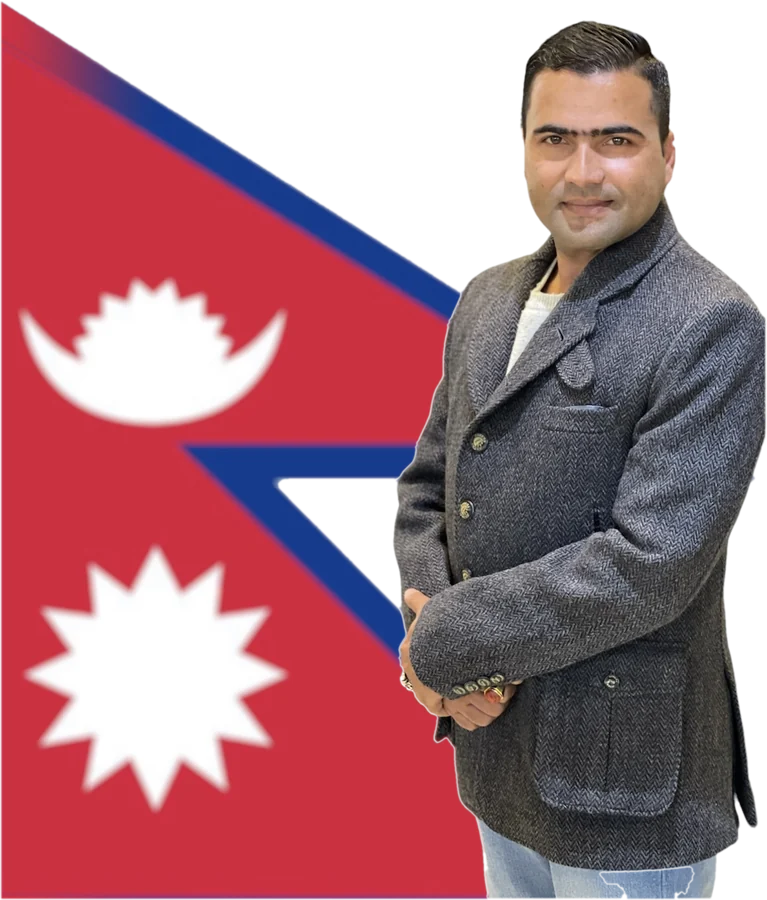
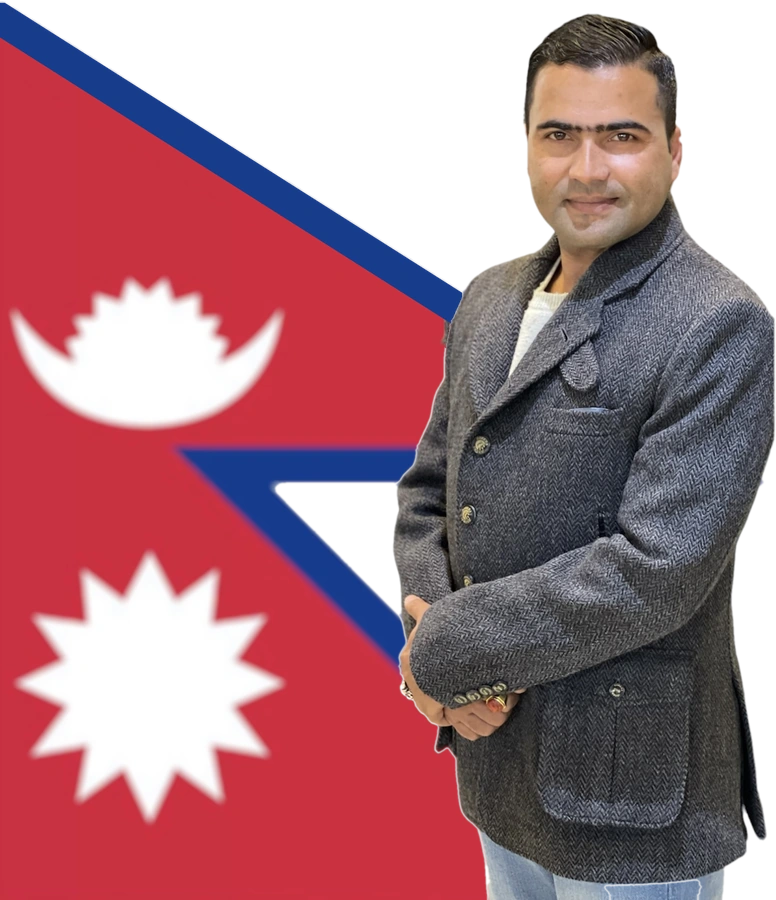
Nation band: flag cut-out blended into maroon, all-maroon on phones, shorter band; fix orphan grid cells

diff --git a/app/globals.css b/app/globals.css
@@ -235,9 +235,15 @@ textarea.input { min-height: 160px; resize: vertical; }
 .cols-260 { grid-template-columns: repeat(auto-fit, minmax(min(100%, 260px), 1fr)); }
 .cols-280 { grid-template-columns: repeat(auto-fit, minmax(min(100%, 280px), 1fr)); }
 .cols-300 { grid-template-columns: repeat(auto-fit, minmax(min(100%, 300px), 1fr)); }
+/* Four items: 4 across or 2×2, never 3+1 (which leaves an empty divider-coloured cell). */
+.cols-4 { grid-template-columns: repeat(4, minmax(0, 1fr)); }
+@media (max-width: 1023px) { .cols-4 { grid-template-columns: repeat(2, minmax(0, 1fr)); } }
 .cols-3 { grid-template-columns: 1fr; }
 @media (min-width: 560px) { .cols-3 { grid-template-columns: repeat(2, minmax(0, 1fr)); } }
 @media (min-width: 900px) { .cols-3 { grid-template-columns: repeat(3, minmax(0, 1fr)); } }
+/* Three items: stacked or 3 across, never 2+1. */
+.cols-3x { grid-template-columns: 1fr; }
+@media (min-width: 900px) { .cols-3x { grid-template-columns: repeat(3, minmax(0, 1fr)); } }
 
 /* numbered rows with a top rule */
 .row-item { display: flex; gap: 20px; align-items: baseline; padding: 22px 0; border-top: 2px solid var(--color-divider); }
@@ -487,60 +493,83 @@ textarea.input { min-height: 160px; resize: vertical; }
 
 .nation {
   position: relative; isolation: isolate; color: #fff; background: var(--color-bg);
-  /* fixed height so the band's colour stops can line up with the photo (see --flag-x) */
-  --nh: clamp(640px, 96vh, 1040px);
+  /* fixed height so the red's clip-path can be computed from it */
+  --nh: min(clamp(520px, 78vh, 860px), 67vw); /* 67vw keeps the flag to half the width on tall tablets */
   height: var(--nh); display: flex; align-items: center; overflow: hidden;
-  /* where the photo's left edge (the flag's trimmed edge) lands: the photo is right-aligned, 86% of the
-     band's height tall, and 1364 x 1600 */
-  --flag-x: calc(100% - var(--nh) * 0.86 * 1364 / 1600);
+  /* the flag's own colours, as the cut-out decodes them (written by scripts/sync_flag_css.py) */
+  --flag-red: rgb(199 49 65);
+  --flag-blue: rgb(23 60 139);
 }
-/* The band: deep maroon behind the headline into the flag's red, eased into the paper at top and bottom
-   (Andreas Larsen's "easing gradients" stops, applied as a mask). */
+.nation__art { position: absolute; inset: 0; z-index: 0; pointer-events: none; }
+/* Gray side only: a warm gray that fades softly into the page above and below (the one gradient here). */
 .nation__field {
-  position: absolute; inset: 0; z-index: 0; pointer-events: none;
-  /* Left: one plain colour, the flag's own red, up to the flag's edge. Right: warm gray behind him. */
-  background: linear-gradient(in oklch 90deg, #c93343 0%, #c93343 calc(var(--flag-x) + 1.5%), #b9ada9 calc(var(--flag-x) + 12%), #cfc7c2 100%);
-}
-.nation__art {
-  position: absolute; inset: 0; z-index: 0; pointer-events: none;
-  -webkit-mask-image: linear-gradient(to bottom, rgba(0,0,0,0) 0.00%, rgba(0,0,0,0.002) 0.25%, rgba(0,0,0,0.008) 0.67%, rgba(0,0,0,0.021) 1.26%, rgba(0,0,0,0.042) 1.95%, rgba(0,0,0,0.075) 2.77%, rgba(0,0,0,0.126) 3.78%, rgba(0,0,0,0.194) 4.90%, rgba(0,0,0,0.278) 6.09%, rgba(0,0,0,0.382) 7.42%, rgba(0,0,0,0.541) 9.24%, rgba(0,0,0,0.738) 11.34%, rgba(0,0,0,1) 14.00%, rgba(0,0,0,1) 86.00%, rgba(0,0,0,0.738) 88.66%, rgba(0,0,0,0.541) 90.76%, rgba(0,0,0,0.382) 92.58%, rgba(0,0,0,0.278) 93.91%, rgba(0,0,0,0.194) 95.10%, rgba(0,0,0,0.126) 96.22%, rgba(0,0,0,0.075) 97.23%, rgba(0,0,0,0.042) 98.05%, rgba(0,0,0,0.021) 98.74%, rgba(0,0,0,0.008) 99.33%, rgba(0,0,0,0.002) 99.75%, rgba(0,0,0,0) 100.00%);
-  mask-image: linear-gradient(to bottom, rgba(0,0,0,0) 0.00%, rgba(0,0,0,0.002) 0.25%, rgba(0,0,0,0.008) 0.67%, rgba(0,0,0,0.021) 1.26%, rgba(0,0,0,0.042) 1.95%, rgba(0,0,0,0.075) 2.77%, rgba(0,0,0,0.126) 3.78%, rgba(0,0,0,0.194) 4.90%, rgba(0,0,0,0.278) 6.09%, rgba(0,0,0,0.382) 7.42%, rgba(0,0,0,0.541) 9.24%, rgba(0,0,0,0.738) 11.34%, rgba(0,0,0,1) 14.00%, rgba(0,0,0,1) 86.00%, rgba(0,0,0,0.738) 88.66%, rgba(0,0,0,0.541) 90.76%, rgba(0,0,0,0.382) 92.58%, rgba(0,0,0,0.278) 93.91%, rgba(0,0,0,0.194) 95.10%, rgba(0,0,0,0.126) 96.22%, rgba(0,0,0,0.075) 97.23%, rgba(0,0,0,0.042) 98.05%, rgba(0,0,0,0.021) 98.74%, rgba(0,0,0,0.008) 99.33%, rgba(0,0,0,0.002) 99.75%, rgba(0,0,0,0) 100.00%);
+  position: absolute; inset: 0; z-index: 0; background: #cfc7c2;
+  -webkit-mask-image: linear-gradient(to bottom, rgba(0,0,0,0) 0.00%, rgba(0,0,0,0.002) 0.40%, rgba(0,0,0,0.008) 1.06%, rgba(0,0,0,0.021) 1.98%, rgba(0,0,0,0.042) 3.06%, rgba(0,0,0,0.075) 4.36%, rgba(0,0,0,0.126) 5.94%, rgba(0,0,0,0.194) 7.70%, rgba(0,0,0,0.278) 9.57%, rgba(0,0,0,0.382) 11.66%, rgba(0,0,0,0.541) 14.52%, rgba(0,0,0,0.738) 17.82%, rgba(0,0,0,1) 22.00%, rgba(0,0,0,1) 78.00%, rgba(0,0,0,0.738) 82.18%, rgba(0,0,0,0.541) 85.48%, rgba(0,0,0,0.382) 88.34%, rgba(0,0,0,0.278) 90.43%, rgba(0,0,0,0.194) 92.30%, rgba(0,0,0,0.126) 94.06%, rgba(0,0,0,0.075) 95.64%, rgba(0,0,0,0.042) 96.94%, rgba(0,0,0,0.021) 98.02%, rgba(0,0,0,0.008) 98.94%, rgba(0,0,0,0.002) 99.60%, rgba(0,0,0,0) 100.00%);
+  mask-image: linear-gradient(to bottom, rgba(0,0,0,0) 0.00%, rgba(0,0,0,0.002) 0.40%, rgba(0,0,0,0.008) 1.06%, rgba(0,0,0,0.021) 1.98%, rgba(0,0,0,0.042) 3.06%, rgba(0,0,0,0.075) 4.36%, rgba(0,0,0,0.126) 5.94%, rgba(0,0,0,0.194) 7.70%, rgba(0,0,0,0.278) 9.57%, rgba(0,0,0,0.382) 11.66%, rgba(0,0,0,0.541) 14.52%, rgba(0,0,0,0.738) 17.82%, rgba(0,0,0,1) 22.00%, rgba(0,0,0,1) 78.00%, rgba(0,0,0,0.738) 82.18%, rgba(0,0,0,0.541) 85.48%, rgba(0,0,0,0.382) 88.34%, rgba(0,0,0,0.278) 90.43%, rgba(0,0,0,0.194) 92.30%, rgba(0,0,0,0.126) 94.06%, rgba(0,0,0,0.075) 95.64%, rgba(0,0,0,0.042) 96.94%, rgba(0,0,0,0.021) 98.02%, rgba(0,0,0,0.008) 98.94%, rgba(0,0,0,0.002) 99.60%, rgba(0,0,0,0) 100.00%);
 }
 .nation__inner { width: 100%; position: relative; z-index: 2; padding-top: clamp(72px, 12vh, 140px); padding-bottom: clamp(72px, 12vh, 140px); }
 .nation__text { gap: 28px; max-width: 46%; }
 .nation .kicker { color: var(--color-accent-200); }
 .nation .kicker::before { background: #fff; }
-.nation h2 { color: #fff; text-wrap: balance; text-shadow: 0 2px 24px rgba(40, 8, 14, .25); }
+.nation h2 { color: #fff; text-wrap: balance; }
 .nation__photo {
-  /* full width (the photo stays right-aligned) so the fade below never clips the red field's left side */
-  position: absolute; z-index: 1; left: 0; right: 0; top: 0; bottom: 0;
-  display: flex; align-items: flex-end; justify-content: flex-end; pointer-events: none;
+  position: absolute; z-index: 1; inset: 0;
+  display: flex; align-items: flex-end; justify-content: flex-end;
 }
-/* starts below the band's top fade so his head is never faded */
+/* The cut-out (him + the flag), right-aligned, 86% of the band's height. */
 .nation__fig { position: relative; height: 86%; }
-.nation__fig > img {
-  position: relative; z-index: 2; height: 100%; width: auto; max-width: none; display: block;
+.nation__fig > img { position: relative; z-index: 2; height: 100%; width: auto; max-width: none; display: block; }
+/* The flag, continued to the left edge of the screen, drawn with clip-path only (hard edges, no gradients):
+   ::before is the red; ::after is the flag's blue top border, carried up its diagonal and then along the
+   top of the band to the left edge of the screen.
+   Numbers measured from the cut-out (1379 x 1600): the top edge has slope 0.6343 and meets the photo's left
+   side 0px below its top corner; the blue border is 4.06% of the photo's height thick (measured
+   vertically; x 0.844 for its true thickness, used for the horizontal run). */
+.nation__fig::before, .nation__fig::after {
+  content: ''; position: absolute; bottom: 0; width: 300vw; top: calc(var(--nh) * -0.4);
+  --k: 0.6344;
+  --ys: calc(var(--nh) * 0.26);                                   /* the band's top edge inside this box (0.40 - 0.14) */
+  --y0: calc(var(--nh) * 0.4 + var(--nh) * 0.86 * -0.3 / 1600);      /* the flag's top edge where it meets the photo */
+  --bt: calc(var(--nh) * 0.86 * 0.0413);                          /* border thickness, vertical */
+  --bp: calc(var(--bt) * 0.844);                                  /* border thickness, true */
 }
-/* Soft warm gray glow behind him. */
+.nation__fig::before {
+  /* its diagonal sits 4px inside the blue border's outer edge, so no red hairline shows above the blue */
+  --yr: calc(var(--y0) + 4px);
+  z-index: 1; right: calc(100% - 2px); background: var(--flag-red);
+  clip-path: polygon(0 var(--ys), calc(100% - (var(--yr) - var(--ys)) / var(--k)) var(--ys), 100% var(--yr), 100% 100%, 0 100%);
+}
+.nation__fig::after {
+  /* overlaps the photo by a few px; the photo's own border is redrawn crisp to match (cut-out script) */
+  --o: 3px;
+  z-index: 3; right: calc(100% - var(--o)); background: var(--flag-blue);
+  clip-path: polygon(
+    0 var(--ys),
+    calc(100% - var(--o) - (var(--y0) - var(--ys)) / var(--k)) var(--ys),
+    100% calc(var(--y0) + var(--o) * var(--k)),
+    100% calc(var(--y0) + var(--o) * var(--k) + var(--bt)),
+    calc(100% - var(--o) - (var(--y0) + var(--bt) - var(--ys) - var(--bp)) / var(--k)) calc(var(--ys) + var(--bp)),
+    0 calc(var(--ys) + var(--bp)));
+}
+/* Soft warm gray glow behind him (gray side). */
 .nation__halo {
-  position: absolute; z-index: 1; left: 45%; right: -20%; top: -6%; bottom: 10%;
-  background: radial-gradient(closest-side, #b8aca7 0%, color-mix(in srgb, #c0b5b0 80%, transparent) 45%, color-mix(in srgb, #c0b5b0 0%, transparent) 100%); filter: blur(18px); opacity: .95;
+  position: absolute; z-index: 0; left: 45%; right: -20%; top: -6%; bottom: 10%;
+  background: radial-gradient(closest-side, #b8aca7 0%, color-mix(in srgb, #c0b5b0 80%, transparent) 45%, color-mix(in srgb, #c0b5b0 0%, transparent) 100%);
+  filter: blur(18px); opacity: .95;
 }
 @media (max-width: 759px) {
-  /* Phones: the whole section is the plain flag red (headline included), eased into the paper at its
-     top and bottom edges. */
-  .nation { flex-direction: column; align-items: stretch; height: auto; background: #c93343;
-    -webkit-mask-image: linear-gradient(to bottom, rgba(0,0,0,0) 0.00%, rgba(0,0,0,0.002) 0.13%, rgba(0,0,0,0.008) 0.34%, rgba(0,0,0,0.021) 0.63%, rgba(0,0,0,0.042) 0.97%, rgba(0,0,0,0.075) 1.39%, rgba(0,0,0,0.126) 1.89%, rgba(0,0,0,0.194) 2.45%, rgba(0,0,0,0.278) 3.05%, rgba(0,0,0,0.382) 3.71%, rgba(0,0,0,0.541) 4.62%, rgba(0,0,0,0.738) 5.67%, rgba(0,0,0,1) 7.00%, rgba(0,0,0,1) 93.00%, rgba(0,0,0,0.738) 94.33%, rgba(0,0,0,0.541) 95.38%, rgba(0,0,0,0.382) 96.29%, rgba(0,0,0,0.278) 96.95%, rgba(0,0,0,0.194) 97.55%, rgba(0,0,0,0.126) 98.11%, rgba(0,0,0,0.075) 98.61%, rgba(0,0,0,0.042) 99.03%, rgba(0,0,0,0.021) 99.37%, rgba(0,0,0,0.008) 99.66%, rgba(0,0,0,0.002) 99.87%, rgba(0,0,0,0) 100.00%); mask-image: linear-gradient(to bottom, rgba(0,0,0,0) 0.00%, rgba(0,0,0,0.002) 0.13%, rgba(0,0,0,0.008) 0.34%, rgba(0,0,0,0.021) 0.63%, rgba(0,0,0,0.042) 0.97%, rgba(0,0,0,0.075) 1.39%, rgba(0,0,0,0.126) 1.89%, rgba(0,0,0,0.194) 2.45%, rgba(0,0,0,0.278) 3.05%, rgba(0,0,0,0.382) 3.71%, rgba(0,0,0,0.541) 4.62%, rgba(0,0,0,0.738) 5.67%, rgba(0,0,0,1) 7.00%, rgba(0,0,0,1) 93.00%, rgba(0,0,0,0.738) 94.33%, rgba(0,0,0,0.541) 95.38%, rgba(0,0,0,0.382) 96.29%, rgba(0,0,0,0.278) 96.95%, rgba(0,0,0,0.194) 97.55%, rgba(0,0,0,0.126) 98.11%, rgba(0,0,0,0.075) 98.61%, rgba(0,0,0,0.042) 99.03%, rgba(0,0,0,0.021) 99.37%, rgba(0,0,0,0.008) 99.66%, rgba(0,0,0,0.002) 99.87%, rgba(0,0,0,0) 100.00%); }
-  .nation__field { background: #c93343; }
-  .nation__inner { padding-top: clamp(80px, 14vh, 120px); padding-bottom: 8px; }
+  /* Phones: the whole section is the flag's red; white headline, then the flag photo directly on it. */
+  .nation { flex-direction: column; align-items: stretch; height: auto; background: var(--flag-red); }
+  .nation__inner { padding-top: clamp(48px, 8vh, 72px); padding-bottom: 20px; }
   .nation__text { max-width: none; }
-  .nation__art { position: relative; inset: auto; order: 2; -webkit-mask-image: none; mask-image: none; }
-  .nation__art .nation__field { z-index: -1; }
-  .nation__photo { position: relative; width: 100%; height: auto; justify-content: flex-start; }
+  .nation__art { position: static; }
+  .nation__field { display: none; }
+  .nation__photo { position: relative; inset: auto; width: 100%; justify-content: flex-start; }
   .nation__fig { height: auto; width: 100%; }
   .nation__fig > img { height: auto; width: 100%; }
+  .nation__fig::before, .nation__fig::after { display: none; }
+  .nation__halo { display: none; }
 }
-
 .manifesto span { color: var(--color-neutral-300); transition: color .25s ease; }
 
 .story-frame { position: relative; width: 100%; height: min(calc(100vh - var(--hh, 66px) - 120px), 760px); min-height: 360px; overflow: hidden; background: var(--color-surface); }

diff --git a/components/pages/HomePage.tsx b/components/pages/HomePage.tsx
@@ -297,7 +297,7 @@ export default function HomePage() {
       <section className="wrap" style={{ paddingTop: 'clamp(96px,16vh,200px)', paddingBottom: 'clamp(72px,12vh,140px)' }}>
         <div className="kicker">{t.k.conviction}</div>
         <Manifesto text={t.manifesto} style={{ margin: '32px 0 0 -.058em', fontFamily: 'var(--font-heading)', fontWeight: 800, fontSize: 'calc(clamp(32px,5.6vw,96px) * var(--h-b))', lineHeight: 'var(--hl)', letterSpacing: '-.035em', maxWidth: '16em', textWrap: 'pretty' }} />
-        <div className="cells cols-220" style={{ marginTop: 'clamp(64px,10vh,128px)' }}>
+        <div className="cells cols-4" style={{ marginTop: 'clamp(64px,10vh,128px)' }}>
           {t.stats.map((s, i) => (
             <div key={i} style={{ padding: '28px 24px 32px' }}>
               <div data-reveal={i} className="stack" style={{ justifyContent: 'space-between', gap: 20, minHeight: 180 }}>
@@ -312,17 +312,15 @@ export default function HomePage() {
       {/* Statement band: maroon into the flag's red, the flag portrait continuing out of it, warm gray
           behind him. */}
       <section className="nation" aria-labelledby="nation-title">
-        {/* Band + photo share one container that fades into the paper at top and bottom (one eased mask
-            for both, so the fade is identical across the photo's edge). */}
+        {/* Artwork layer: the gray side, the photo, and the flag continued to the left (CSS clip-paths). */}
         <div className="nation__art">
           <div className="nation__field" aria-hidden="true" />
           <div className="nation__photo">
             {/* Cut-out of him and the whole flag (scripts/cutout_flag_portrait.py). The flag's left edge is
-                trimmed, and the band reaches the flag's red exactly at that edge, so the flag continues out
-                of the background; to its right the band is warm gray. */}
+                trimmed; the flag's red and blue border are continued from that edge in CSS. */}
             <div className="nation__fig">
               <span className="nation__halo" aria-hidden="true" />
-              <img src="/images/badri/nepal-flag-cutout.webp" alt={t.nation.alt} loading="lazy" width={1364} height={1600} />
+              <img src="/images/badri/nepal-flag-cutout.webp" alt={t.nation.alt} loading="lazy" width={1379} height={1600} />
             </div>
           </div>
         </div>
@@ -484,7 +482,7 @@ export default function HomePage() {
           <figcaption className="caption caption-row"><span>{t.impact.cap}</span><span>{t.impact.credit}</span></figcaption>
         </figure>
         <div className="wrap sec-bot" style={{ marginTop: 'clamp(56px,9vh,112px)' }}>
-          <div className="cells cols-260">
+          <div className="cells cols-3x">
             {t.impact.facts.map((f, i) => (
               <div key={i} style={{ padding: '28px 24px 36px' }}>
                 <div data-reveal={i} className="stack" style={{ gap: 12, minHeight: 200 }}>

diff --git a/components/pages/VenturesPage.tsx b/components/pages/VenturesPage.tsx
@@ -54,7 +54,7 @@ export default function VenturesPage() {
       <section id="top" className="wrap page-hero" style={{ paddingBottom: 'clamp(64px,10vh,120px)' }}>
         <Kicker>{t.hero.k}</Kicker>
         <HeroLines lines={t.hero.lines} style={{ marginTop: 24, fontSize: 'calc(clamp(52px,9vw,168px) * var(--h-a))' }} />
-        <div data-hero-fade="1" className="cells cols-260" style={{ marginTop: 'clamp(40px,7vh,80px)', borderTopColor: 'var(--color-text)' }}>
+        <div data-hero-fade="1" className="cells cols-3x" style={{ marginTop: 'clamp(40px,7vh,80px)', borderTopColor: 'var(--color-text)' }}>
           <div className="stack" style={{ padding: '24px 24px 28px 0', gap: 10 }}>
             <span data-count="100" data-suf="+" className="stat">{num(100, lang)}+</span>
             <span className="label">{t.hero.s1}</span>

diff --git a/components/pages/AboutPage.tsx b/components/pages/AboutPage.tsx
@@ -147,7 +147,7 @@ export default function AboutPage() {
         <div className="wrap" style={{ paddingTop: 'clamp(96px,14vh,180px)', paddingBottom: 'clamp(96px,14vh,180px)' }}>
           <Kicker>{t.vision.k}</Kicker>
           <h2 className="display" style={{ marginTop: 28, fontSize: 'calc(clamp(48px,8.4vw,156px) * var(--h-b))', maxWidth: '11em' }}>{t.vision.title}</h2>
-          <div className="cells cols-300" style={{ marginTop: 'clamp(56px,9vh,112px)' }}>
+          <div className="cells cols-3x" style={{ marginTop: 'clamp(56px,9vh,112px)' }}>
             {t.vision.items.map((v, i) => (
               <div key={i} style={{ padding: '28px 24px 40px 4px' }}>
                 <div data-reveal={i} className="stack" style={{ gap: 18 }}>

diff --git a/components/pages/PressPage.tsx b/components/pages/PressPage.tsx
@@ -100,7 +100,7 @@ export default function PressPage() {
       <section className="wrap sec">
         <Kicker>{t.lead.k}</Kicker>
         <h2 className="headline" style={{ marginTop: 24, marginLeft: '-.04em', fontSize: 'calc(clamp(34px,4.2vw,72px) * var(--h-b))', letterSpacing: '-.035em', maxWidth: '16em' }}>{t.lead.title}</h2>
-        <div className="cells cols-300" style={{ marginTop: 'clamp(40px,7vh,80px)' }}>
+        <div className="cells cols-3x" style={{ marginTop: 'clamp(40px,7vh,80px)' }}>
           {t.lead.items.map((ld, i) => (
             <div key={i} style={{ padding: '28px 24px 36px' }}>
               <div data-reveal={i} className="stack" style={{ gap: 14, minHeight: 200 }}>

diff --git a/components/pages/JournalPage.tsx b/components/pages/JournalPage.tsx
@@ -105,7 +105,7 @@ export default function JournalPage() {
       ) : (
         <section className="wrap" style={{ paddingTop: 'clamp(56px,9vh,112px)', paddingBottom: 'clamp(80px,12vh,160px)' }}>
           <div className="label" style={{ paddingBottom: 16, borderBottom: '2px solid var(--color-text)' }}>{t.topicsK}</div>
-          <div className="cells cols-300" style={{ borderTop: 0 }}>
+          <div className="cells cols-3x" style={{ borderTop: 0 }}>
             {t.topics.map((x, i) => (
               <div key={x.k} style={{ padding: '28px 24px 36px' }}>
                 <div data-reveal={i} className="stack" style={{ gap: 16, minHeight: 220 }}>

diff --git a/components/pages/JourneyPage.tsx b/components/pages/JourneyPage.tsx
@@ -144,7 +144,7 @@ export default function JourneyPage() {
               <figcaption style={{ fontSize: 13, color: 'color-mix(in srgb,var(--color-bg) 75%,transparent)' }}>{t.lead.figCap}</figcaption>
             </figure>
           </div>
-          <div className="cells cols-300" style={{ marginTop: 'clamp(56px,9vh,112px)' }}>
+          <div className="cells cols-3x" style={{ marginTop: 'clamp(56px,9vh,112px)' }}>
             {t.lead.items.map((ld, i) => (
               <div key={i} style={{ padding: '28px 24px 40px 4px' }}>
                 <div data-reveal={i} className="stack" style={{ gap: 16 }}>

diff --git a/components/pages/ImpactPage.tsx b/components/pages/ImpactPage.tsx
@@ -90,7 +90,7 @@ export default function ImpactPage() {
       </PageHero>
 
       <section className="wrap" style={{ paddingTop: 'clamp(72px,11vh,140px)' }}>
-        <div className="cells cols-280">
+        <div className="cells cols-3x">
           {t.facts.map((f, i) => (
             <div key={i} style={{ padding: '28px 24px 36px' }}>
               <div data-reveal={i} className="stack" style={{ gap: 12, minHeight: 240 }}>

diff --git a/scripts/cutout_flag_portrait.py b/scripts/cutout_flag_portrait.py
@@ -19,9 +19,9 @@ SRC = os.path.join(os.path.dirname(__file__), '..', 'source-photos', '54EE0F31-2
 OUT = os.path.join(os.path.dirname(__file__), '..', 'public', 'images', 'badri', 'nepal-flag-cutout')
 
 im = Image.open(SRC).convert('RGB')
-# Trim the flag's left blue border (the client's crop: 25px on the 700px preview = 63px here), so the
-# flag's red runs to the image edge and can flow straight into the red field behind it.
-im = im.crop((63, 0, im.width, im.height))
+# Trim the flag's left blue border (the client's crop: 25px on the 700px preview = 63px here) plus the
+# ~20px over which the border's soft edge still tints the red blue, so clean red runs to the image edge.
+im = im.crop((84, 0, im.width, im.height - 30))   # a little past the border, and above the sliver of the flag's bottom border
 a = np.asarray(im).astype(np.int16)
 r, g, b = a[..., 0], a[..., 1], a[..., 2]
 H, W = r.shape
@@ -66,29 +66,81 @@ keep = flag | him
 # A light feather on both outlines, so neither reads as a hard sticker edge.
 flag_a = np.asarray(Image.fromarray(np.where(flag & ~him, 255, 0).astype(np.uint8)).filter(ImageFilter.GaussianBlur(1.6)))
 him_a = np.asarray(Image.fromarray(np.where(him, 255, 0).astype(np.uint8)).filter(ImageFilter.GaussianBlur(1.6)))
-alpha_img = Image.fromarray(np.maximum(flag_a, him_a).astype(np.uint8))
+alpha_np = np.maximum(flag_a, him_a).astype(np.uint8)
+# No feather along the trimmed left border: there the flag must meet the page's red pixel-perfect.
+alpha_np[:, :10] = alpha_np[:, 10:11]
+# Nor along the bottom: the flag's red and his jacket run solid to the bottom of the band.
+alpha_np[-10:, :] = alpha_np[-11:-10, :]
+alpha_img = Image.fromarray(alpha_np)
 cut = ~keep
 
 flag_red = a[red & ~cut].mean(axis=0)
 print('flag red (avg sRGB):', [int(x) for x in flag_red], '#%02x%02x%02x' % tuple(int(x) for x in flag_red))
 
-# Near the trimmed left edge, the flag's blue top border fades into the flag's red, so on the page it
-# emerges out of the red band instead of starting at a cut. The right-hand blue edges are untouched.
-rgb = a.astype(np.float32)
-fr = np.array(red_rgb := a[red].mean(axis=0), dtype=np.float32)
-xs = np.arange(W, dtype=np.float32)[None, :]
-t = np.clip(xs / (W * 0.22), 0, 1)
-w = (1 - t * t * (3 - 2 * t))                                   # smoothstep: 1 at the edge, 0 by 22% across
-bluish = (blue | purple).astype(np.float32)
-bluish = np.asarray(Image.fromarray((bluish * 255).astype(np.uint8)).filter(ImageFilter.GaussianBlur(3))) / 255.0
-k = (w * bluish)[..., None]
-rgb = rgb * (1 - k) + fr * k
-im = Image.fromarray(np.clip(rgb, 0, 255).astype(np.uint8))
+# Clean the flag's top border. In the photo it is slightly out of focus; the page continues it as a crisp
+# CSS shape, so the two must match. Redraw it as a crisp band on the same line, same thickness and colour,
+# everywhere it is not covered by him. (Position and colours are the photo's own; only the blur goes.)
+BLUE = np.array([24, 60, 140], dtype=np.float32)
+top_y = np.full(W, -1)
+for x in range(W):
+    col = np.nonzero(flag[:, x])[0]
+    if len(col): top_y[x] = col[0]
+fit_x = np.arange(int(W * 0.05), int(W * 0.40))
+k_, b_ = np.polyfit(fit_x, top_y[fit_x], 1)
+tv_ = []
+for x in fit_x[::8]:
+    yy = np.nonzero(blue[:, x])[0]
+    yy = yy[(yy > k_ * x + b_ - 20) & (yy < k_ * x + b_ + 200)]
+    if len(yy) > 3: tv_.append(yy[-1] - yy[0] + 1)
+tv_ = float(np.median(tv_))
+# the border runs along this line until the pennant's tip (where the flag's top edge leaves the line)
+on_line = np.abs(top_y - (k_ * np.arange(W) + b_)) < 6
+x_end = int(np.nonzero(on_line)[0].max())
+yy_, xx_ = np.mgrid[0:H, 0:W].astype(np.float32)
+dist = yy_ - (k_ * xx_ + b_)                      # vertical distance below the flag's top edge
+zone = (xx_ <= x_end) & ~him
+rgb_c = a.astype(np.float32)
+below = np.roll(rgb_c, -90, axis=0)               # the flag's own red from further down, clear of the blur
+in_blue = np.clip(dist + 0.5, 0, 1) * np.clip(tv_ - dist + 0.5, 0, 1)            # 1 inside the band, 1px anti-aliased
+in_fix = np.clip(dist - tv_ + 0.5, 0, 1) * np.clip((tv_ + 60 - dist) / 12, 0, 1)   # 60px under the band (feathered out): blur residue -> red
+wz = zone[..., None].astype(np.float32)
+rgb_c = rgb_c * (1 - wz * in_fix[..., None]) + below * (wz * in_fix[..., None])
+rgb_c = rgb_c * (1 - wz * in_blue[..., None]) + BLUE * (wz * in_blue[..., None])
+a = np.clip(rgb_c, 0, 255).astype(np.int16)
+im = Image.fromarray(a.astype(np.uint8))
+# crisp outer edge too: nothing above the line, solid from the line down (within the zone)
+edge_a = (np.clip(dist + 0.5, 0, 1) * 255).astype(np.uint8)
+alpha_np = np.where(zone & (dist < tv_ + 60), np.where(flag | (dist >= -1), edge_a, alpha_np), alpha_np).astype(np.uint8)
+alpha_np[:, :10] = alpha_np[:, 10:11]
+alpha_img = Image.fromarray(alpha_np)
+print('top border: slope %.4f, thickness %.1fpx, cleaned to x=%d of %d' % (k_, tv_, x_end, W))
+# the repainted pixels are red now: include them in what follows
+r, g, b = a[..., 0], a[..., 1], a[..., 2]
+red = (r > 150) & (r - np.maximum(g, b) > 70)
+
+# The page draws the flag's red onward from the trimmed left edge as a flat colour (PAGE_RED). Nudge the
+# photo's red toward exactly that colour near the edge (full correction at the edge, none by 30% across),
+# so the two meet with no tone step. Only red pixels are touched; the shift is a few levels at most.
+PAGE_RED = np.array([201, 51, 67], dtype=np.float32)
+rgbf = a.astype(np.float32)
+edge_mean = rgbf[:, :60][red[:, :60]].mean(axis=0)
+xs_ = np.arange(W, dtype=np.float32)[None, :]
+t_ = np.clip(xs_ / (W * 0.30), 0, 1)
+w_ = (1 - t_ * t_ * (3 - 2 * t_))[..., None]
+soft_red = np.asarray(Image.fromarray((red * 255).astype(np.uint8)).filter(ImageFilter.GaussianBlur(2)))[..., None] / 255.0
+rgbf = rgbf + (PAGE_RED - edge_mean) * w_ * soft_red
+im = Image.fromarray(np.clip(rgbf, 0, 255).astype(np.uint8))
+print('photo red at left edge before correction:', edge_mean.round(1), '-> page red', PAGE_RED)
 rgba = im.copy(); rgba.putalpha(alpha_img)
 # Trim fully transparent margins.
 bbox = rgba.getbbox(); rgba = rgba.crop(bbox)
 print('cropped to', rgba.size, 'from', im.size, 'bbox', bbox)
 for edge, suffix in ((1600, ''), (900, '-md')):
     o = rgba.copy(); o.thumbnail((edge, edge), Image.LANCZOS)
-    o.save(OUT + suffix + '.webp', 'WEBP', quality=86, method=6)
+    o.save(OUT + suffix + '.webp', 'WEBP', quality=94, method=6)
     print('wrote', os.path.basename(OUT + suffix + '.webp'), o.size, os.path.getsize(OUT + suffix + '.webp') // 1024, 'KB')
+
+# What the saved file actually decodes to at its left edge: the page's --flag-red must equal this.
+d = np.asarray(Image.open(OUT + '.webp').convert('RGB')).astype(np.float32)
+hh = d.shape[0]
+print('decoded red at the left edge (set --flag-red to this):', d[int(hh * 0.25):int(hh * 0.95), :12].reshape(-1, 3).mean(axis=0).round(1))

diff --git a/scripts/sync_flag_css.py b/scripts/sync_flag_css.py
@@ -1,0 +1,35 @@
+"""Measure the flag cut-out and write its numbers into app/globals.css (the CSS that continues the flag).
+
+Run after scripts/cutout_flag_portrait.py:  python scripts/sync_flag_css.py
+"""
+import os, re
+import numpy as np
+from PIL import Image
+
+ROOT = os.path.join(os.path.dirname(__file__), '..')
+im = Image.open(os.path.join(ROOT, 'public/images/badri/nepal-flag-cutout.webp')); W, H = im.size
+a = np.asarray(im).astype(int); r, g, b, al = a[..., 0], a[..., 1], a[..., 2], a[..., 3]
+xs = np.arange(int(W * 0.05), int(W * 0.40), 4)
+ys = np.array([np.nonzero(al[:, x] > 128)[0][0] for x in xs])
+k, b0 = np.polyfit(xs, ys, 1)                                   # the flag's top edge: y = k x + b0
+blue = (b > r + 45) & (b > g + 20) & (al > 200)
+tv = []
+for x in xs:
+    yy = np.nonzero(blue[:int(H * 0.5), x])[0]
+    if len(yy) > 3: tv.append(yy[yy < yy[0] + 200][-1] - yy[0] + 1)
+t = float(np.median(tv)) / H                                    # border thickness, vertical, as a fraction of height
+core = blue & (b > r + 90)
+bl = a[core][:, :3].mean(0).round().astype(int)
+red = a[int(H * 0.25):int(H * 0.95), :12, :3].reshape(-1, 3).mean(0).round().astype(int)
+print(f'{W}x{H}  slope {k:.4f}  top edge at x=0: {b0:.1f}px  border {t * 100:.2f}% of height  blue {tuple(bl)}  edge red {tuple(red)}')
+
+p = os.path.join(ROOT, 'app/globals.css'); s = open(p, encoding='utf-8').read()
+s = re.sub(r'--k: [\d.]+;', f'--k: {k:.4f};', s, count=1)
+s = re.sub(r'(--y0: calc\(var\(--nh\) \* 0\.4 \+ var\(--nh\) \* 0\.86 \* )-?[\d.]+( / 1600\);)', rf'\g<1>{b0:.1f}\g<2>', s, count=1)
+s = re.sub(r'(--bt: calc\(var\(--nh\) \* 0\.86 \* )[\d.]+(\);)', rf'\g<1>{t:.4f}\g<2>', s, count=1)
+s = re.sub(r'--flag-red: rgb\(\d+ \d+ \d+\);', f'--flag-red: rgb({red[0]} {red[1]} {red[2]});', s, count=1)
+s = re.sub(r'--flag-blue: rgb\(\d+ \d+ \d+\);', f'--flag-blue: rgb({bl[0]} {bl[1]} {bl[2]});', s, count=1)
+open(p, 'w', encoding='utf-8').write(s)
+h = os.path.join(ROOT, 'components/pages/HomePage.tsx'); t2 = open(h, encoding='utf-8').read()
+t2 = re.sub(r'(nepal-flag-cutout\.webp" alt=\{t\.nation\.alt\} loading="lazy" width=\{)\d+(\} height=\{)\d+(\} />)', rf'\g<1>{W}\g<2>{H}\g<3>', t2, count=1)
+open(h, 'w', encoding='utf-8').write(t2)
